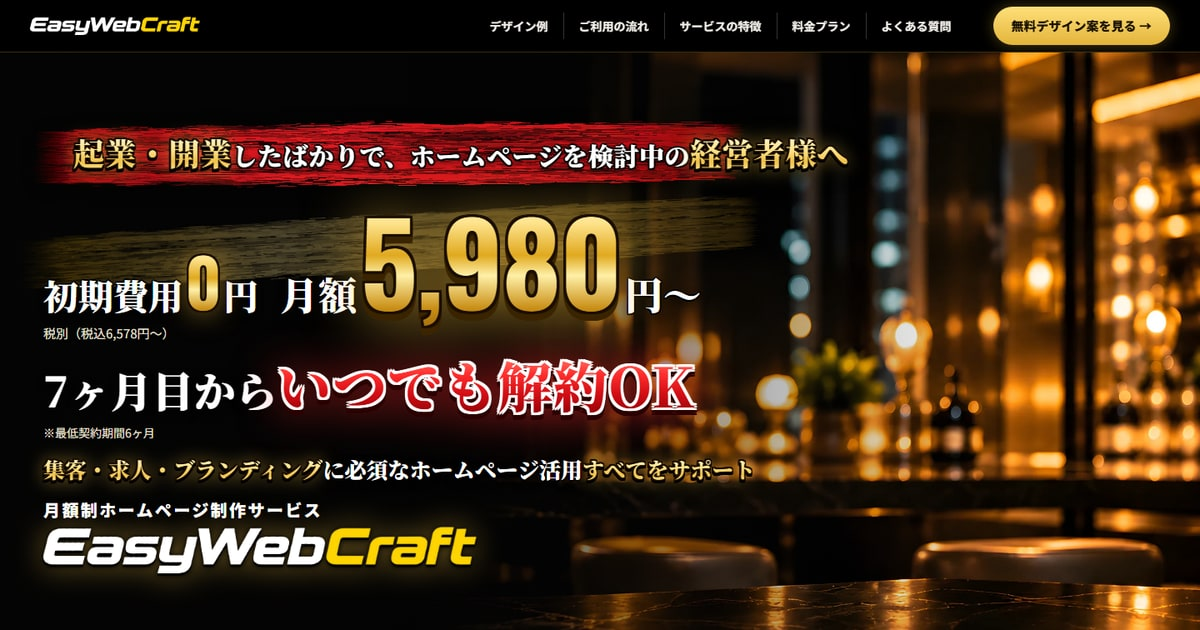
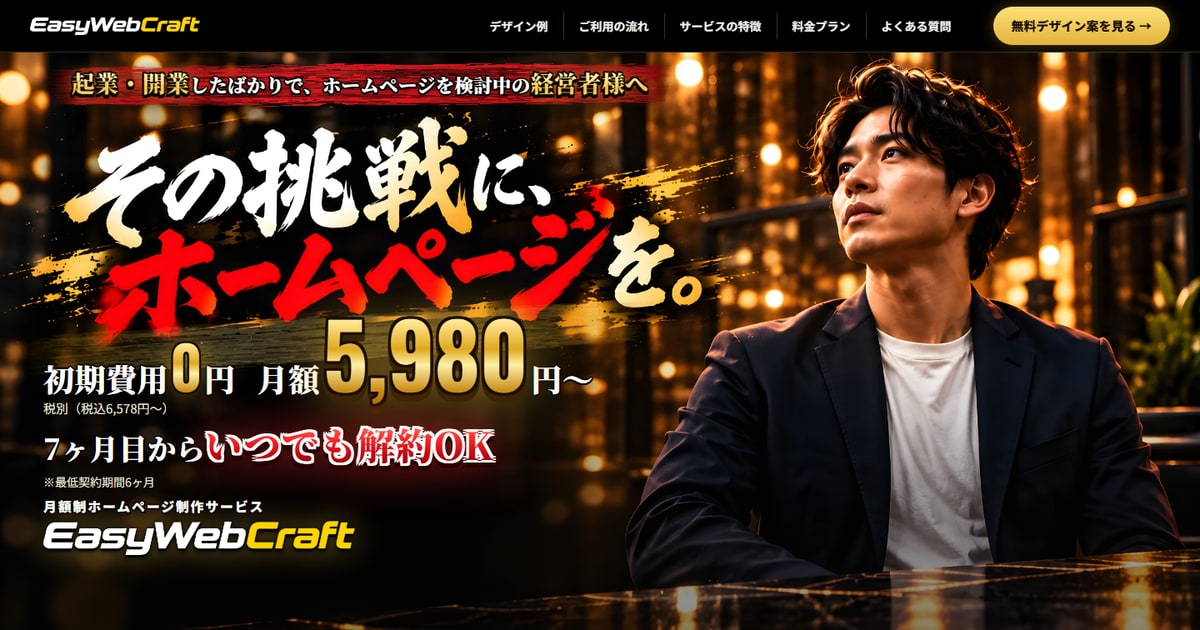
v2（筆文字＋男性のFV）を本番に。OGP画像も撮り直し
Claude-Session: https://claude.ai/code/session_01G65TiHfa1BUco43NvNDLJF

diff --git a/index.html b/index.html
@@ -1,6 +1,7 @@
 <!DOCTYPE html>
 <html lang="ja">
 <head>
+<!-- FV：生成AIで作り直した旧版FV（筆文字「その挑戦に、ホームページを。」＋男性）を背景に、経営者様へ・料金・解約OK・ロゴを重ねる（2026-09-30 v2を本番に） -->
 <meta charset="utf-8">
 <meta name="viewport" content="width=device-width, initial-scale=1">
 <meta name="robots" content="noindex">
@@ -1231,6 +1232,59 @@ body{font-size:16.5px}
 .reqm{display:inline-block; margin-left:6px; padding:1px 7px; border-radius:4px; background:#c4121a; color:#fff; font-size:11px; font-weight:800; vertical-align:2px}
 .form .lb{display:flex; align-items:center}
 .form .cta-note{color:#8a6a10}
+/* ===== 試作v2：筆文字入りの背景画像に合わせた配置 ===== */
+.sr{position:absolute; width:1px; height:1px; overflow:hidden; clip:rect(0 0 0 0); white-space:nowrap}
+.fv3-bg img{object-position:center top !important}
+.fv3 .fv3-for{position:absolute; left:50%; transform:translateX(-50%); top:6px; margin:0; z-index:3; white-space:nowrap}
+@media (max-width:699px){
+  .fv3::before{background:linear-gradient(180deg,rgba(5,5,5,0) 0%,rgba(5,5,5,0) 48%,rgba(5,5,5,.45) 66%,rgba(5,5,5,.75) 100%) !important}
+  .fv3 .fv3-for{font-size:12px !important; padding:5px 14px 6px !important; line-height:1.3 !important}
+  .fv3 .fv3-for .l1 br{display:none}
+  .fv3 .fv3-for b{font-size:1.45em !important; display:inline !important}
+}
+@media (min-width:700px){
+  .fv3::before{background:linear-gradient(90deg,rgba(5,5,5,.45) 0%,rgba(5,5,5,.25) 40%,rgba(5,5,5,0) 58%) !important}
+  .fv3-in{min-height:56.3vw !important; justify-content:flex-start !important; padding-top:calc(21.2vw) !important; padding-bottom:24px !important}
+  .fv3 .fv3-for{left:32px; transform:none; top:max(8px, 0.4vw); font-size:clamp(16px,1.55vw,24px) !important; padding:8px 34px 10px !important}
+  .fv3-price{margin-top:0 !important}
+  .fv3-price .z{font-size:clamp(24px,2.6vw,38px) !important}
+  .fv3-price .p small{font-size:clamp(26px,2.6vw,40px) !important}
+  .fv3-h.fv3-price .p b,.fv3-price .p b{font-size:clamp(70px,7.4vw,112px) !important}
+  .fv3-tax{margin-top:0 !important}
+  .fv3-cancel{margin-top:2px !important}
+  .fv3-h .c{font-size:clamp(22px,2.4vw,36px) !important}
+  .fv3-brand{margin-top:10px !important}
+  .fv3-brand .k{font-size:clamp(12px,1.1vw,17px) !important}
+  .fv3-brand img{width:clamp(240px,26vw,400px) !important}
+}
+/* 調整：筆文字をくすませない／スマホは筆文字の下から始める */
+@media (min-width:700px){
+  .fv3::before{background:linear-gradient(180deg,rgba(5,5,5,0) 0%,rgba(5,5,5,0) 46%,rgba(5,5,5,.4) 70%,rgba(5,5,5,.55) 100%) !important}
+}
+@media (max-width:699px){
+  .fv3::before{background:linear-gradient(180deg,rgba(5,5,5,0) 0%,rgba(5,5,5,0) 30%,rgba(5,5,5,.45) 50%,rgba(5,5,5,.7) 100%) !important}
+  .fv3-in{justify-content:flex-start !important; padding-top:50vw !important; padding-bottom:84px !important}
+  .fv3-price{margin-top:0 !important}
+  .fv3-h.fv3-price .p b{font-size:21vw !important; line-height:1 !important}
+  .fv3-price .z{font-size:6.4vw !important}
+  .fv3-h.fv3-price .p small{font-size:6.4vw !important}
+  .fv3-cancel{margin-top:4px !important}
+  .fv3-h .c{font-size:5.4vw !important}
+  .fv3-h .c em{font-size:1.6em !important}
+  .fv3-brand{margin-top:8px !important}
+  .fv3-brand .k{font-size:3.3vw !important}
+  .fv3-brand img{width:66% !important}
+}
+@media (max-width:699px) and (max-height:600px){
+  .fv3-in{padding-top:49vw !important}
+  .fv3-h.fv3-price .p b{font-size:16vw !important}
+  .fv3-price .z{font-size:5vw !important}
+  .fv3-h .c{font-size:4.6vw !important}
+  .fv3-h .c em{font-size:1.45em !important}
+  .fv3-brand .k{display:none}
+  .fv3-brand{margin-top:4px !important}
+  .fv3-brand img{width:52% !important}
+}
 </style>
 <script>
 // FVの高さ用：開いたときの見える高さを1回だけ測って固定（アドレスバーの出入りでFVが伸び縮みしないように）
@@ -1263,16 +1317,16 @@ body{font-size:16.5px}
 <!-- ① ファーストビュー（背景写真＋HTMLの文字） -->
 <section class="fv3" aria-label="EasyWebCraft">
   <picture class="fv3-bg">
-    <source media="(min-width: 700px)" srcset="img/v3/nbg-pc.webp 2560w, img/v3/nbg-pc@2x.webp 3344w" sizes="100vw">
-    <img src="img/v3/nbg-sp.webp" alt="" width="1242" height="2209" fetchpriority="high">
+    <source media="(min-width: 700px)" srcset="img/v3/ch-pc.webp">
+    <img src="img/v3/ch-sp.webp" alt="" width="1242" height="2207" fetchpriority="high">
   </picture>
   <div class="fv3-in">
     <p class="fv3-for"><span class="l1"><em>起業・開業</em>したばかりで、<br class="sp-br">ホームページを検討中の</span><b>経営者様へ</b></p>
+    <h2 class="sr">その挑戦に、ホームページを。</h2>
     <p class="fv3-h fv3-price"><span class="z">初期費用<b>0</b>円</span><span class="p"><small>月額</small><b class="num">5,980</b><small>円〜</small><span class="tax-sp">税別（税込6,578円〜）</span></span></p>
     <p class="fv3-tax">税別（税込6,578円〜）</p>
     <p class="fv3-h fv3-cancel"><span class="c">7ヶ月目から<br class="sp-br"><em>いつでも解約OK</em><span class="terms-sp">※最低契約期間6ヶ月</span></span></p>
     <p class="fv3-terms">※最低契約期間6ヶ月</p>
-    <p class="fv3-use"><em>集客・求人・ブランディング</em>に必須な<br class="sp-br">ホームページ活用<em>すべてをサポート</em></p>
     <h1 class="fv3-brand"><span class="k">月額制ホームページ制作サービス</span><img src="img/v3/logo-fv.webp" alt="EasyWebCraft" width="1400" height="150"></h1>
   </div>
 </section>
